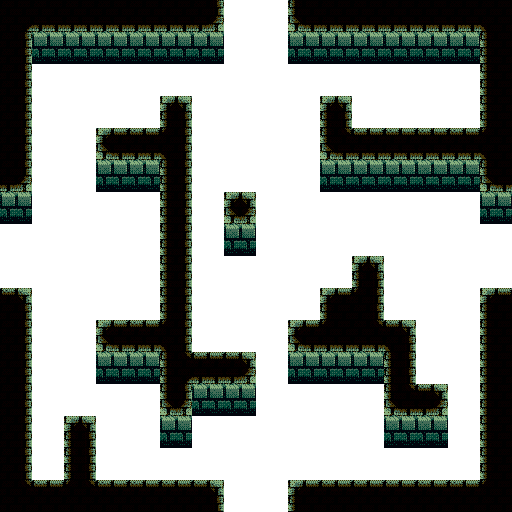
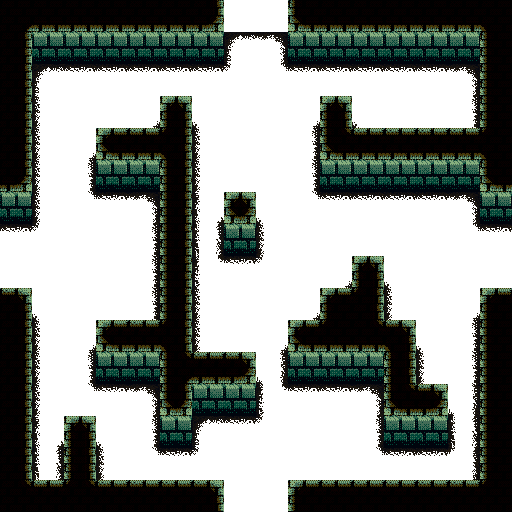
ao works

diff --git a/game-build-tools/src/level/mod.rs b/game-build-tools/src/level/mod.rs
@@ -8,11 +8,11 @@ use ndarray::Array2;
 use crate::level::adjacency::match_adjacency_rule;
 
 pub fn alpha_blend_new(base: &RgbaImage, overlay: &RgbaImage, x: u32, y: u32) -> RgbaImage {
-    let (base_width, base_height) = base.dimensions();
-    let (overlay_width, overlay_height) = overlay.dimensions();
+    let (base_width, base_height) = overlay.dimensions();
+    let (overlay_width, overlay_height) = base.dimensions();
 
     // Create new image with same dimensions as base
-    let mut result = base.clone();
+    let mut result = overlay.clone();
 
     for dy in 0..overlay_height {
         for dx in 0..overlay_width {
@@ -24,7 +24,7 @@ pub fn alpha_blend_new(base: &RgbaImage, overlay: &RgbaImage, x: u32, y: u32) ->
                 continue;
             }
 
-            let overlay_pixel = overlay.get_pixel(dx, dy);
+            let overlay_pixel = base.get_pixel(dx, dy);
             let base_pixel = result.get_pixel_mut(base_x, base_y);
 
             // Alpha blending formula: result = src * src_alpha + dst * (1 - src_alpha)

diff --git a/game/build.rs b/game/build.rs
@@ -58,6 +58,25 @@ fn main() {
         .render(&tile_sheet)
         .expect("Failed to render front walls layer");
 
+    // Ambient occlusion
+    let ao_locations = ceiling_locations.convolve(|neighborhood| {
+        let top_value = neighborhood.get(0, -1).unwrap_or(1);
+        if top_value == 1 {
+            0
+        } else {
+            1
+        }
+    });
+    let ao_autotile_sheet = tile_sheet.canonical_autotile((1, 0), (0, 2));
+    let ao_autotile_layer = ao_locations.autotile_with(1, AbyssPolicy::PadWithSelf);
+
+    // We want the ao to be hidden by the ceiling, so we can replace the ceiling layer
+    let ao_image = ao_autotile_layer
+        .render(&ao_autotile_sheet)
+        .expect("Failed to render AO layer");
+
+    let ceiling_image = alpha_blend_new(&ceiling_image, &ao_image, 0, 0);
+
     // Merge the images
     let level_image = alpha_blend_new(&front_walls_image, &ceiling_image, 0, 0);
 
